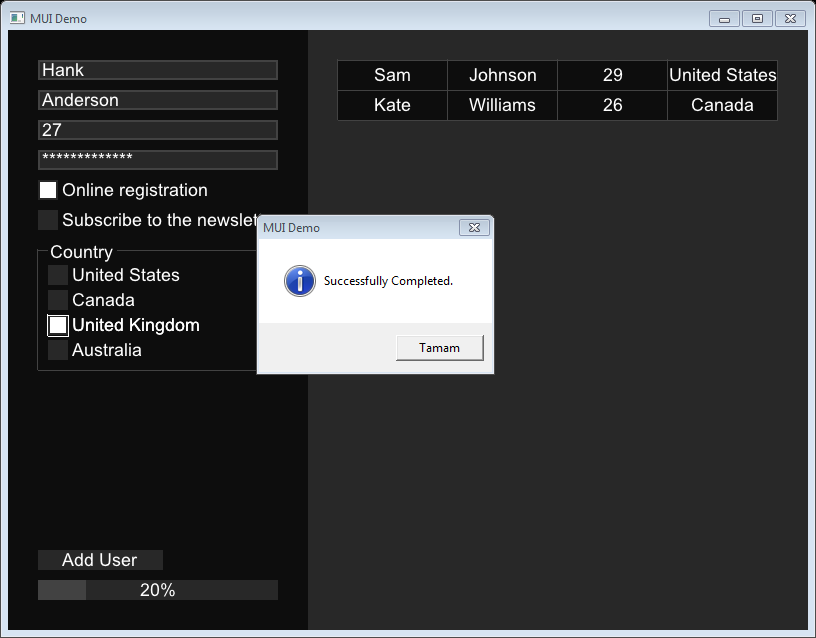
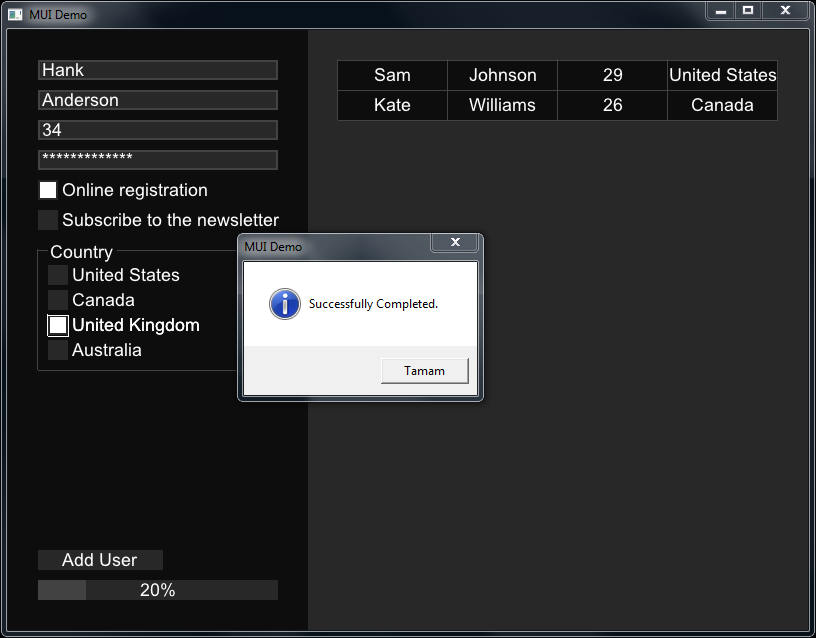
Update gallery.md

Changed region(s): [[0.0, 0.0, 1.0, 1.0], [0.2757, 0.3276, 0.6127, 0.6552], [0.0613, 0.1787, 0.0919, 0.2085]]

diff --git a/gallery.md b/gallery.md
@@ -3,7 +3,7 @@
 |Operating System |Screenshots                                     |
 |-----------------|------------------------------------------------|
 | Windows 10      |![Windows](./pictures/windows.png "Windows 10") |
-| Windows 7       |![Windows7](./pictures/windows.png "Windows 7") |
+| Windows 7       |![Windows7](./pictures/windows7.png "Windows 7")|
 | Linux (Arch)    |![Linux](./pictures/linux.png "Linux")          |
 | Linux (Ubuntu)  |![Ubuntu](./pictures/ubuntu.png "Ubuntu")       |
 | Wine            |![Wine](./pictures/wine.png "Wine")             |
